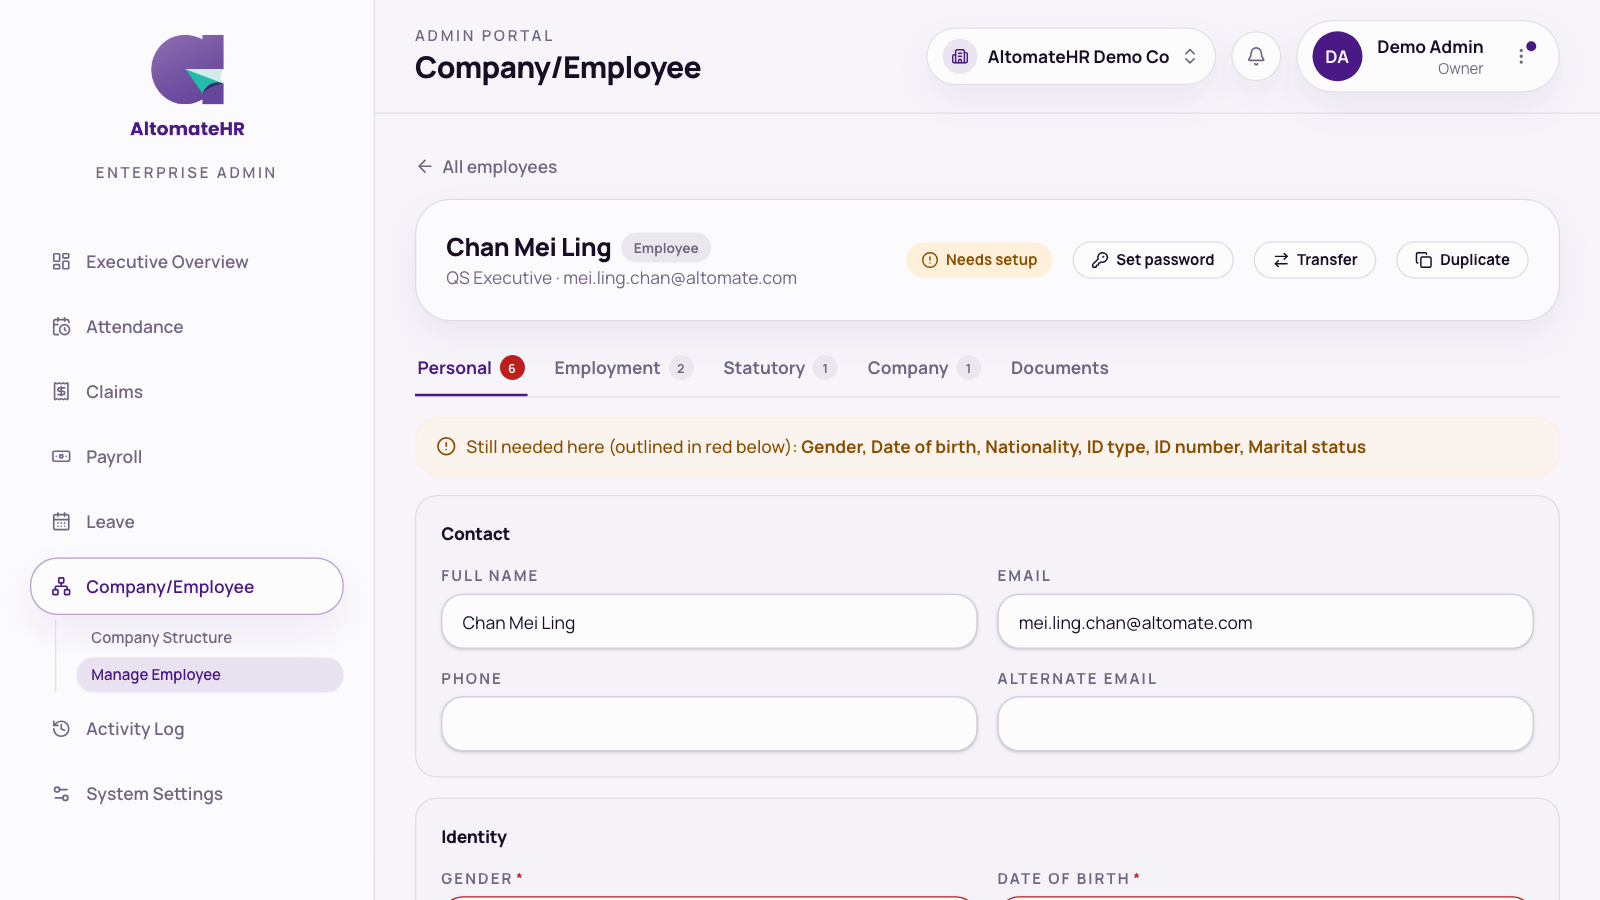
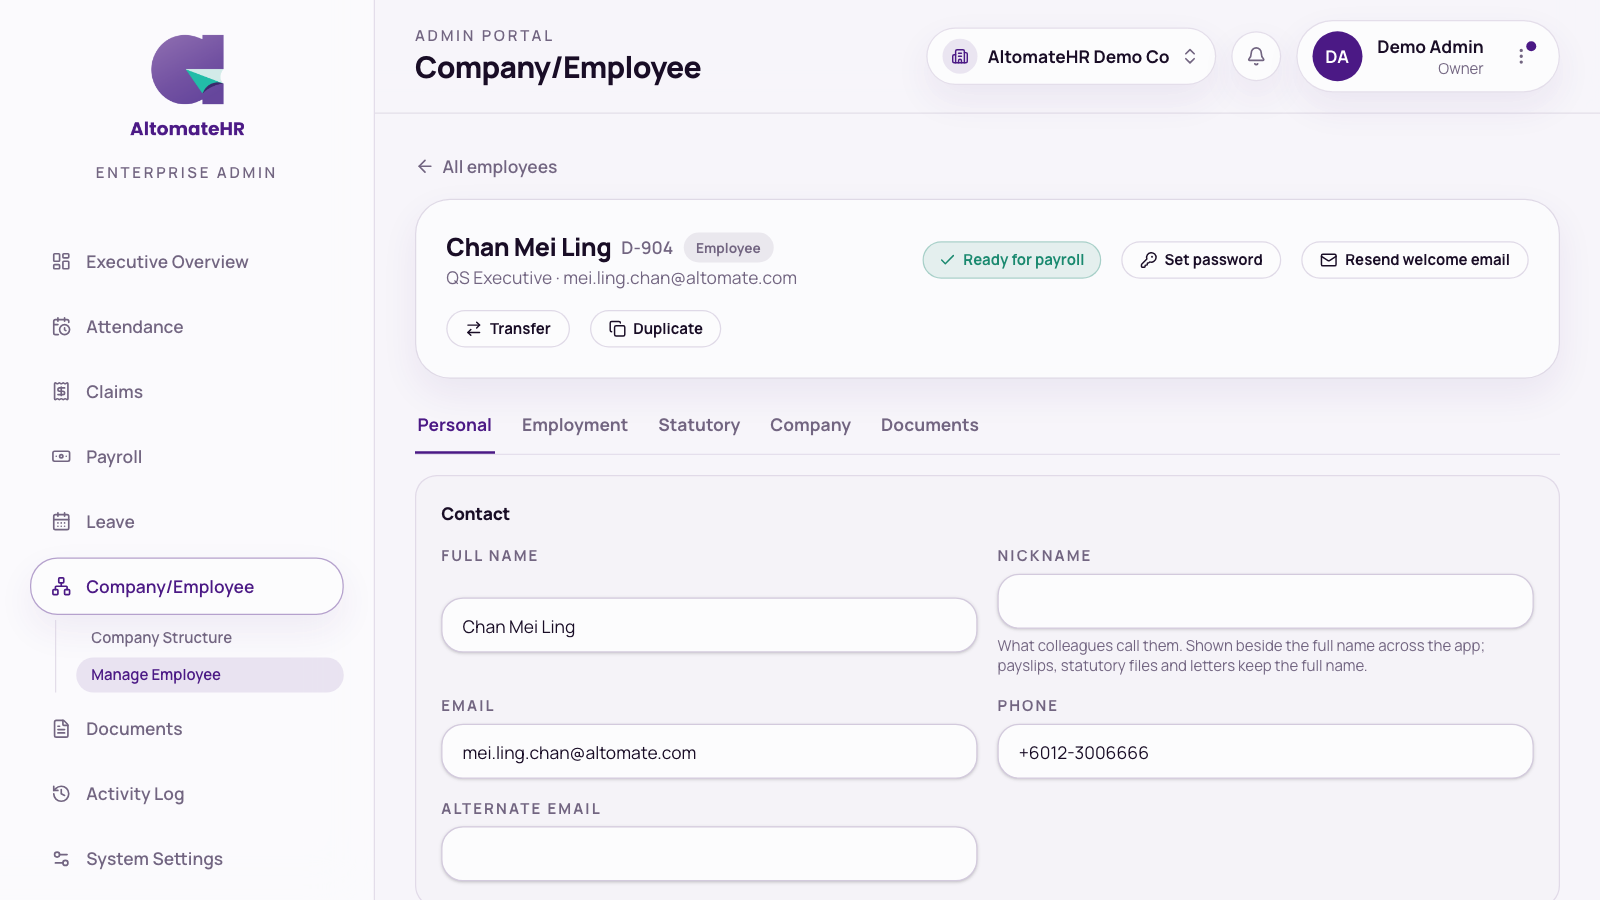
docs: What's new, admin guide and API docs bookmark for Resend welcome email

diff --git a/user-guide/altomatehr-admin-guide.html b/user-guide/altomatehr-admin-guide.html
@@ -7,7 +7,7 @@
   Bookmark: this page is correct as of this commit on main. The next update
   re-checks every user-visible change after it — from any branch — then
   moves it forward.
-  user-guide-covered-up-to: 1d2dd6e
+  user-guide-covered-up-to: 5041d89
 -->
 <html lang="en">
 <head>
@@ -908,6 +908,21 @@
     </figure>
     <p>Edits are saved with the bar at the bottom. <span class="btn-name">Set password</span> in the header sets a new
       password for them — hand it over outside email.</p>
+    <p>If someone never got their welcome email, or lost it, press <span class="btn-name">Resend welcome email</span>
+      in the header, next to <span class="btn-name">Set password</span>, then <span class="btn-name">Send email</span>
+      to confirm. The button changes to <em>Welcome email sent</em>. The email tells them where to sign in. While their
+      starting password (email followed by birth month and day) still works, it explains that rule; once they've changed
+      it, it tells them to use their current password, or <em>Forgot password</em> on the sign-in page. It never
+      contains the password itself. The button is greyed out for employees who have left — restore them first. On a
+      narrow screen the header buttons move below the name.</p>
+    <figure class="shot" data-place="Employees">
+      <div class="shot-grid" data-orient="screen">
+        <div class="shot-item">
+          <img src="shots/admin/employee-resend-welcome.png" alt="The Resend welcome email confirmation over an employee's record, with Cancel and Send email buttons" loading="lazy">
+        </div>
+      </div>
+      <p class="shot-cap shot-cap-main">Confirming Resend welcome email</p>
+    </figure>
     <p>The <strong>Email</strong> on a person's record is the email they sign in with, so it changes everywhere they
       work. Saving is refused, with a message saying why, in these cases:</p>
     <ul>
@@ -932,7 +947,7 @@
     </figure>
     <h3>Moving someone to another company</h3>
     <p>If you look after more than one company, two buttons sit in the employee's header, next to
-      <span class="btn-name">Set password</span>. They appear for staff, not for owners or admins, and only when there is
+      <span class="btn-name">Set password</span> and <span class="btn-name">Resend welcome email</span>. They appear for staff, not for owners or admins, and only when there is
       a company you run where the person doesn't already work. Archived people must be restored first.</p>
     <ul>
       <li><span class="btn-name">Transfer</span> — they leave this company and start at the other one.
@@ -956,7 +971,7 @@
     <figure class="shot" data-place="Employees">
       <div class="shot-grid" data-orient="screen">
         <div class="shot-item">
-          <img src="shots/admin/employee-transfer-buttons.png" alt="An employee's header with Set password, Transfer and Duplicate buttons" loading="lazy">
+          <img src="shots/admin/employee-transfer-buttons.png" alt="An employee's header with Set password, Resend welcome email, Transfer and Duplicate buttons" loading="lazy">
           <p class="shot-cap">Transfer and Duplicate</p>
         </div>
         <div class="shot-item">
@@ -2298,7 +2313,8 @@
         that day, then they drop out of future runs but keep every payslip and form.</p></div></details>
     <details class="qa"><summary>A new employee can't sign in.</summary>
       <div class="body"><p>Their starting password is their email followed by their birth month and day, so their date
-        of birth must be on file. Or use <span class="btn-name">Set password</span> on their record.</p></div></details>
+        of birth must be on file. Press <span class="btn-name">Resend welcome email</span> on their record to remind them how
+        to sign in, or use <span class="btn-name">Set password</span> to give them a new password.</p></div></details>
     </div>
   </details>
 

diff --git a/frontend/src/features/whats-new/lib/entries.ts b/frontend/src/features/whats-new/lib/entries.ts
@@ -8,7 +8,7 @@
 //
 // Bookmark: the last commit on main these notes already cover. The next update
 // writes up everything after it — from any branch — then moves it forward.
-// whats-new-covered-up-to: 1d2dd6e
+// whats-new-covered-up-to: 5041d89
 
 export type WhatsNewEntry = {
   /** Release day, yyyy-MM-dd (Malaysia time). Also what "unread" compares. */
@@ -24,12 +24,12 @@ export const WHATS_NEW: WhatsNewEntry[] = [
   {
     date: "2026-10-27",
     new: [
-      "Companies without Xero now start with 22 ready-made claim item types, such as Travel – Local, Telephone & Internet and Medical (Staff). Existing companies that don't use Xero and have none get them automatically.",
+      "Companies without Xero that have no claim item types now get 22 ready-made ones, such as Travel – Local, Telephone & Internet and Medical (Staff). Admins: connecting Xero archives them, and disconnecting restores them. Your own archive choices stay either way.",
       "Mileage claims can now start from an optional Google Maps or Waze route screenshot. AI fills in the distance, start and end; the approver sees the screenshot.",
+      "Admins: an employee's page has a new Resend welcome email button. It explains how to sign in, pointing to Forgot password if their first password no longer works.",
     ],
     improved: [
       "Without Xero, \"Chart of accounts\" is now called \"Claim item types\" everywhere in the app. A company set to No Xero is no longer asked to connect Xero on the claim settings or item types pages.",
-      "Admins: connecting Xero archives the starter claim item types, and disconnecting brings them back. Your own archive or restore choices are kept either way.",
       "Admins: the Xero card can say \"Uses your company's own Xero app\", and Connect waits for AltomateHR to set that app up. A company set to No Xero sees \"Xero isn't switched on for your company\" instead of Connect.",
       "Admins: the Motor Vehicle / Mileage item starts switched off, so mileage claims are refused until you switch it on after setting its per-km rate. Until one is on, the claim form tells staff to ask their admin.",
       "Admins: posting payroll to Xero now stops on a reimbursed claim whose account isn't linked to Xero, and names the claim, instead of posting it under a code Xero may use for a different account.",

diff --git a/api-docs/index.html b/api-docs/index.html
@@ -25,7 +25,7 @@
   Bookmark: the pages that exist are correct as of this commit on main. The
   next update re-checks every controller/DTO changed after it — from any
   branch — then moves it forward.
-  api-docs-covered-up-to: 1d2dd6e
+  api-docs-covered-up-to: 5041d89
 -->
 <div class="layout">
   <nav class="sidebar" aria-label="Documentation">

diff --git a/user-guide/altomatehr-employee-guide.html b/user-guide/altomatehr-employee-guide.html
@@ -7,7 +7,7 @@
   Bookmark: this page is correct as of this commit on main. The next update
   re-checks every user-visible change after it — from any branch — then
   moves it forward.
-  user-guide-covered-up-to: 1d2dd6e
+  user-guide-covered-up-to: 5041d89
 -->
 <html lang="en">
 <head>
